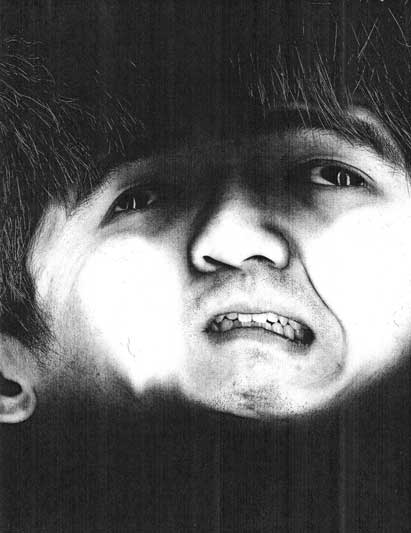
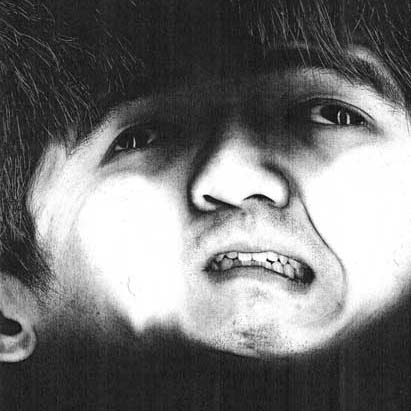
Crop photocopied faces.

diff --git a/client/components/route-handlers/Miscellany.jsx b/client/components/route-handlers/Miscellany.jsx
@@ -10,7 +10,7 @@ export default React.createClass({
           <Carousel
             description="These images were produced by rolling and smearing my face along the glass as the photocopied was scanning."
             images={faces}
-            originalHeight={533}
+            originalHeight={411}
             originalWidth={411}
             slug="photocopied-faces"
             title="Photocopied Faces"
